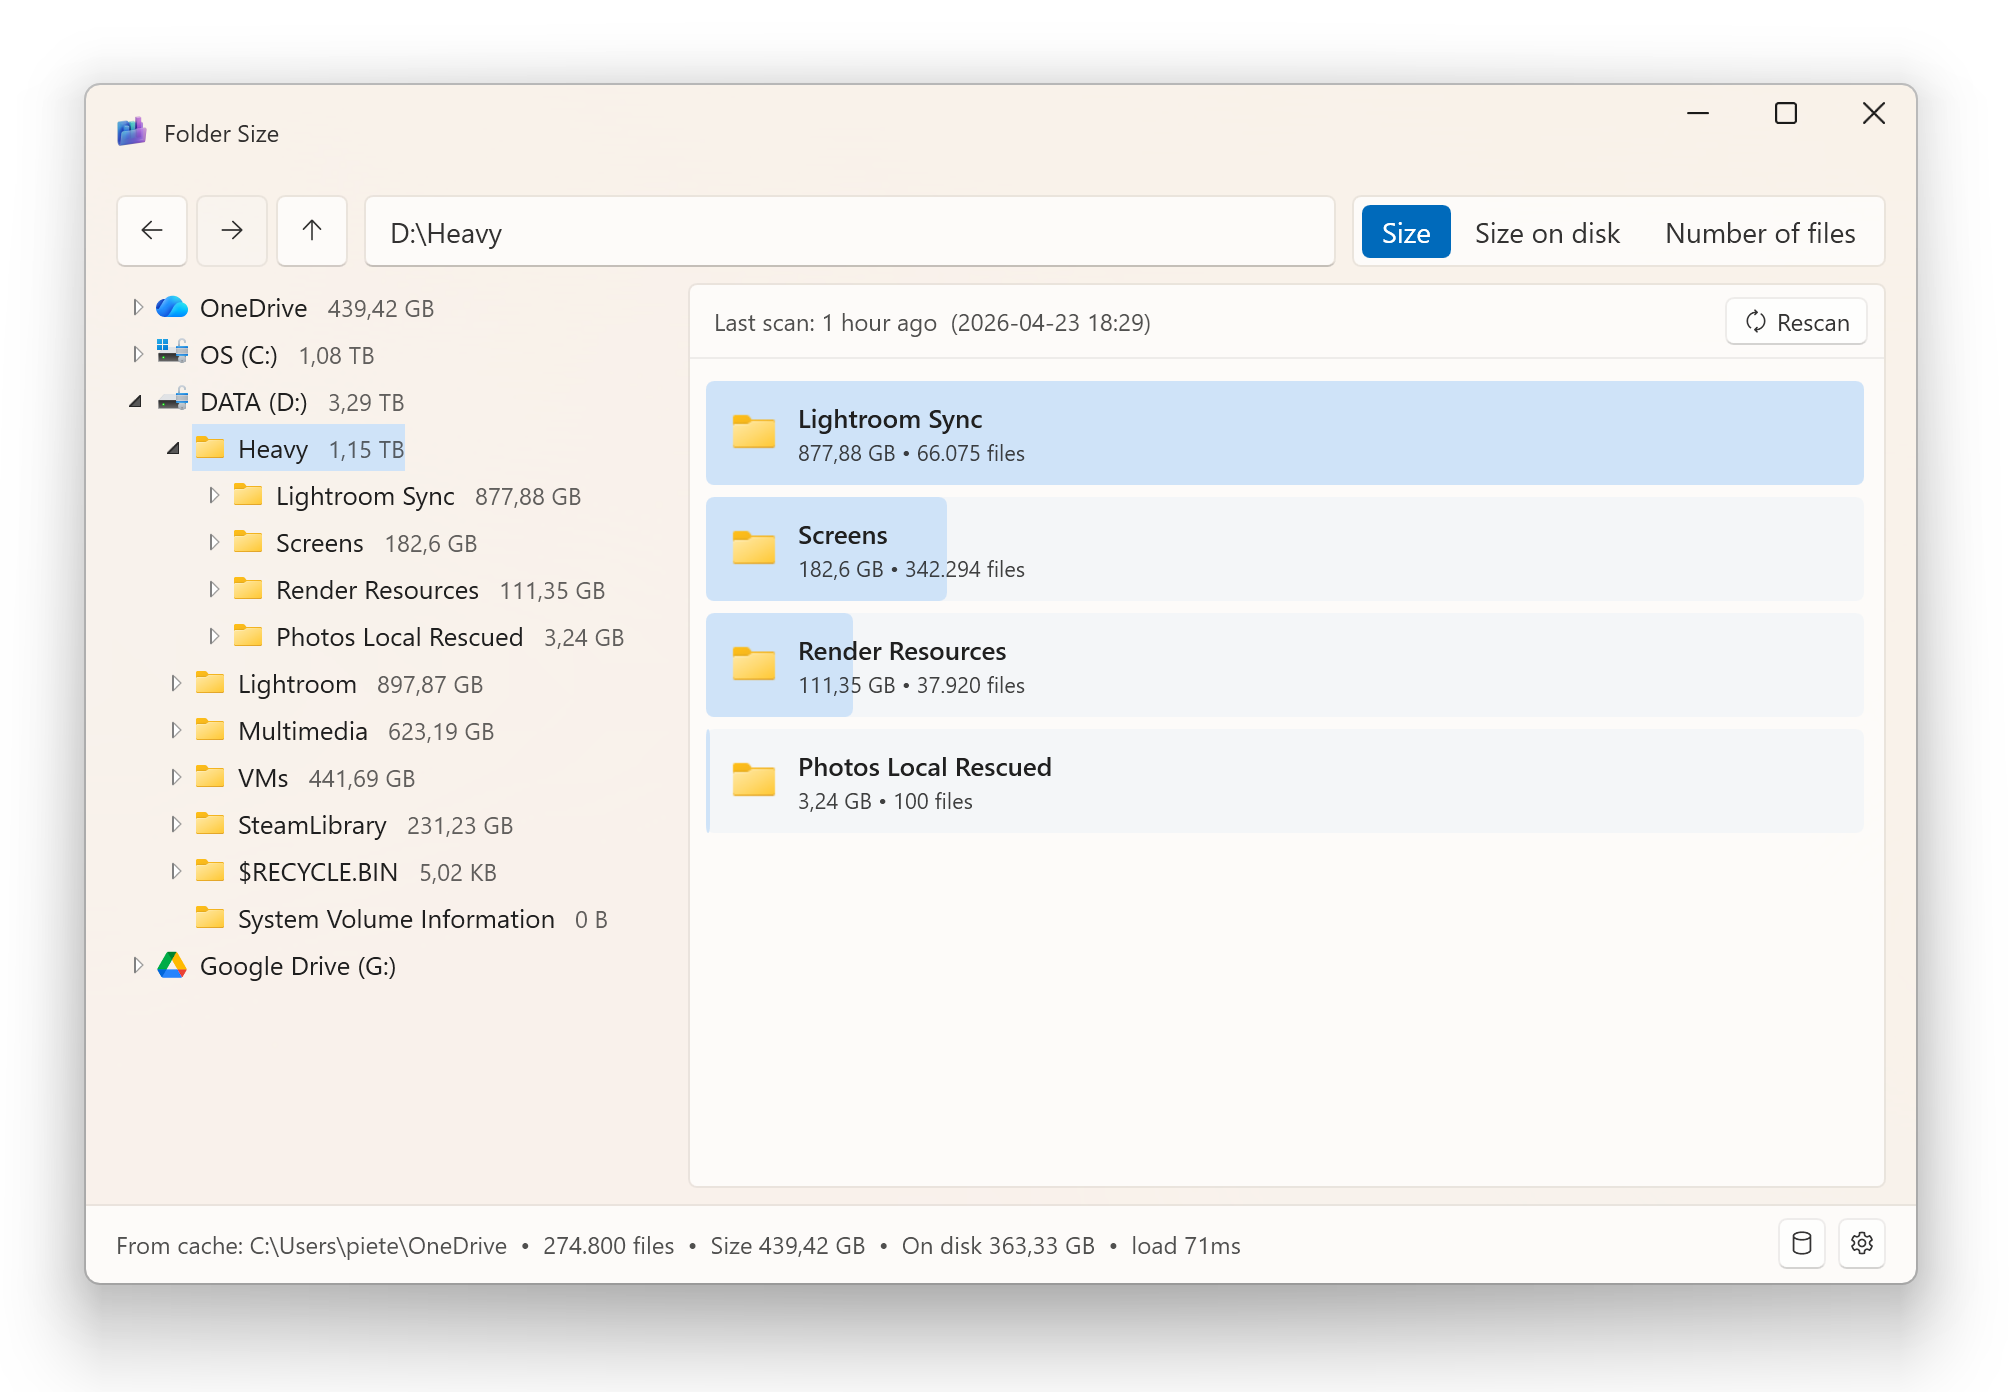
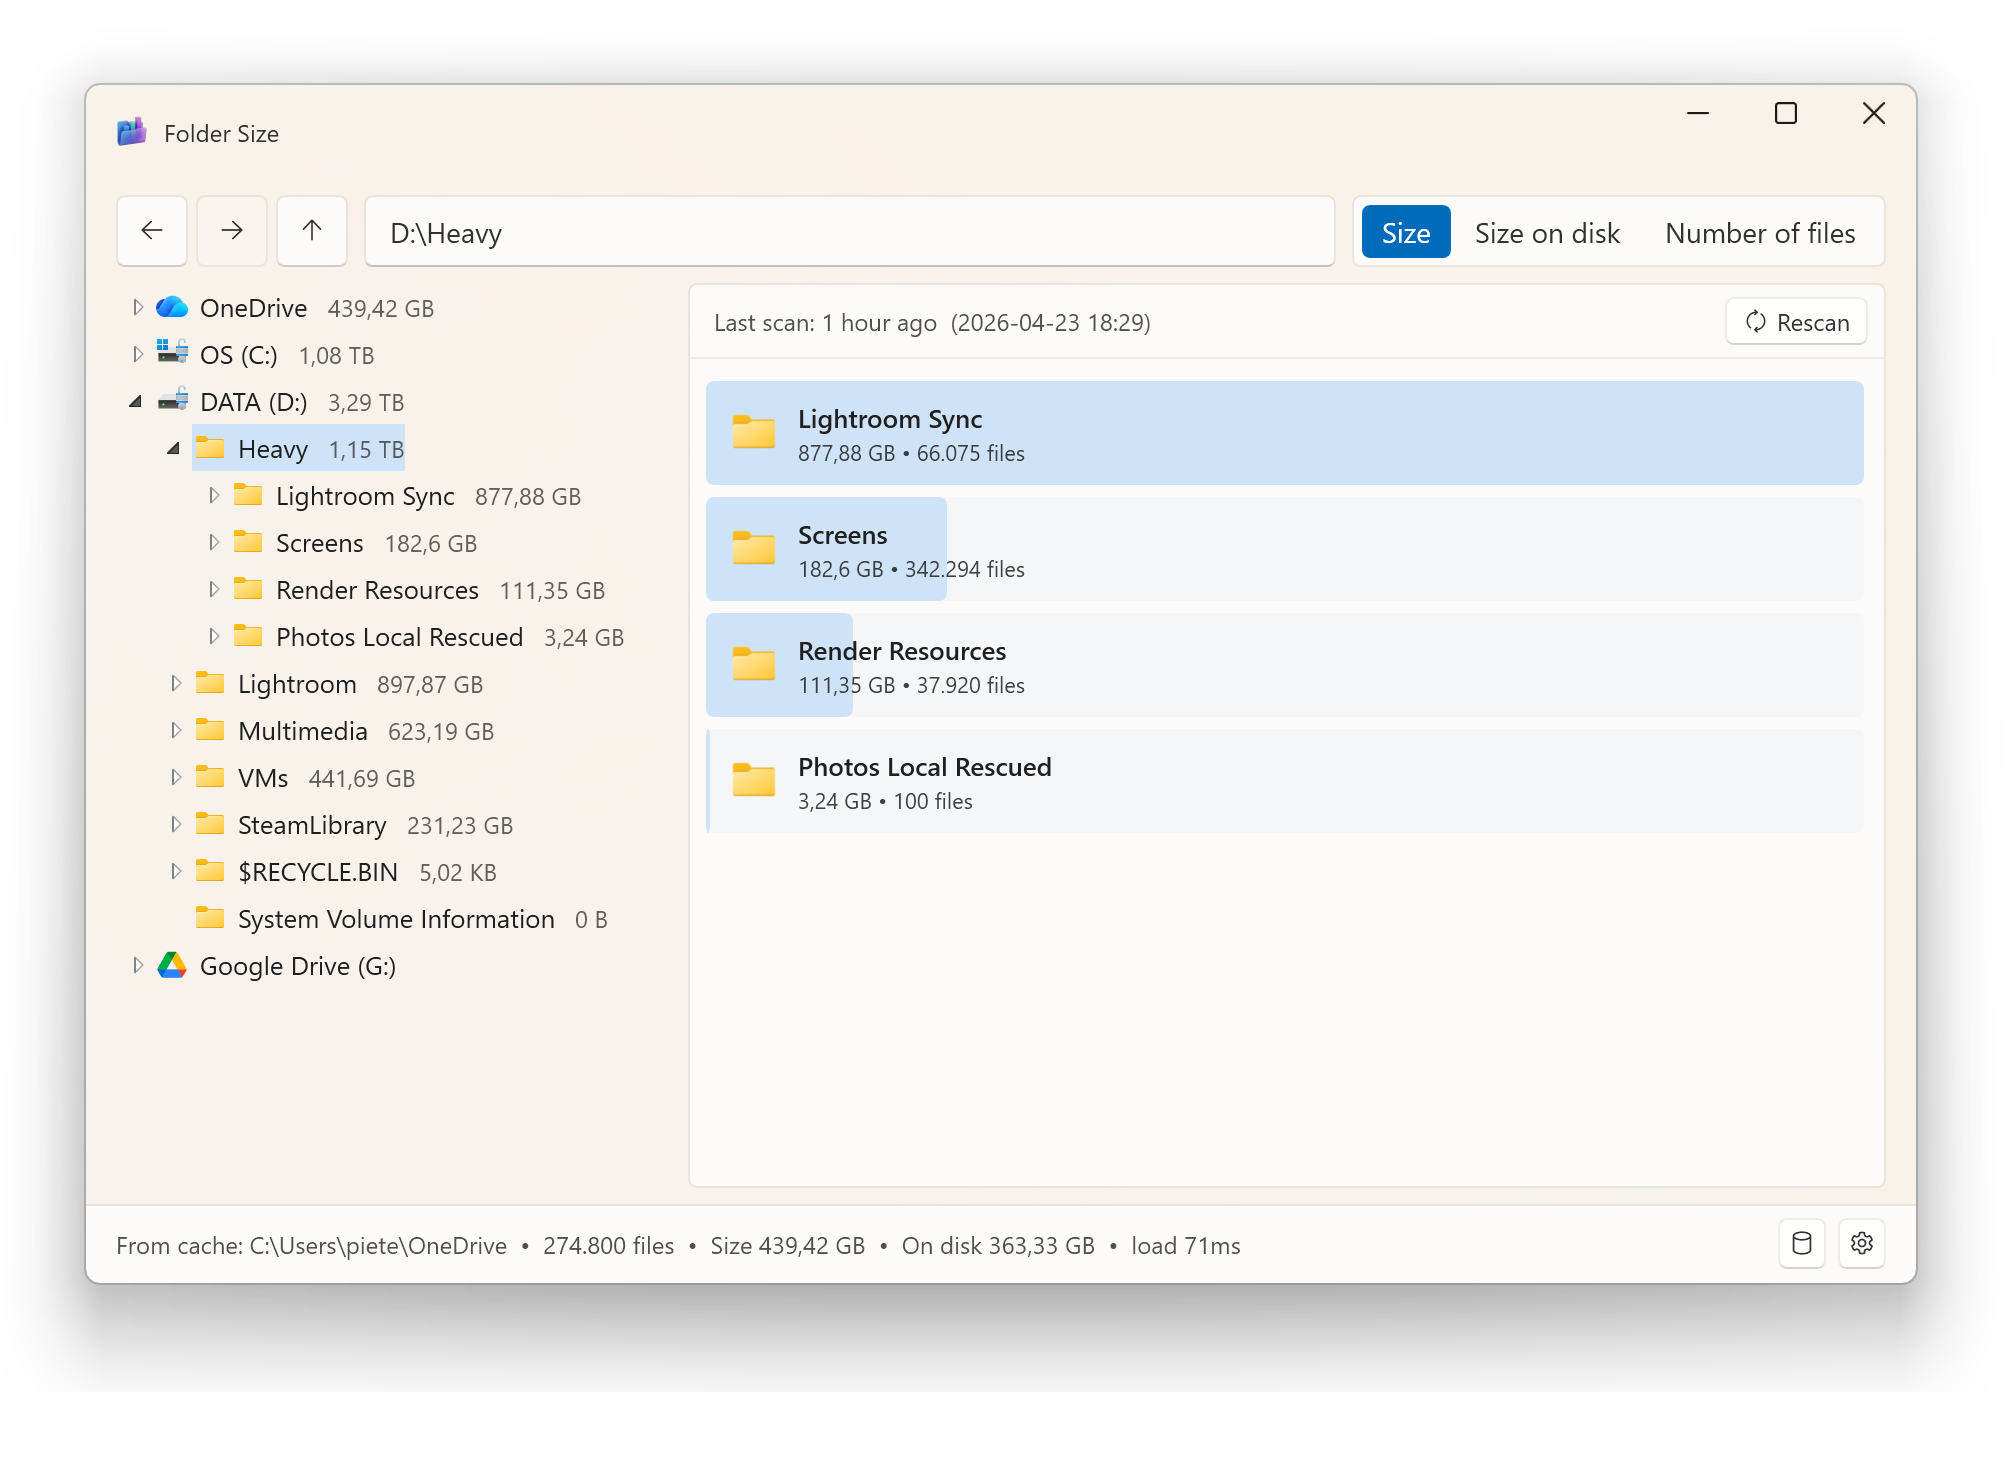
Polish README assets
- New logo.png: regenerated cleanly on white with crisp edges (no halo)
- screenshot.png: 80px white pad at bottom so the WPF drop shadow can fade

diff --git a/README.md b/README.md
@@ -1,5 +1,5 @@
 <p align="center">
-  <img src="FolderSize/Assets/icon.png" width="140" alt="Folder Size logo" />
+  <img src="logo.png" width="160" alt="Folder Size logo" />
 </p>
 
 <h1 align="center">Folder Size</h1>
